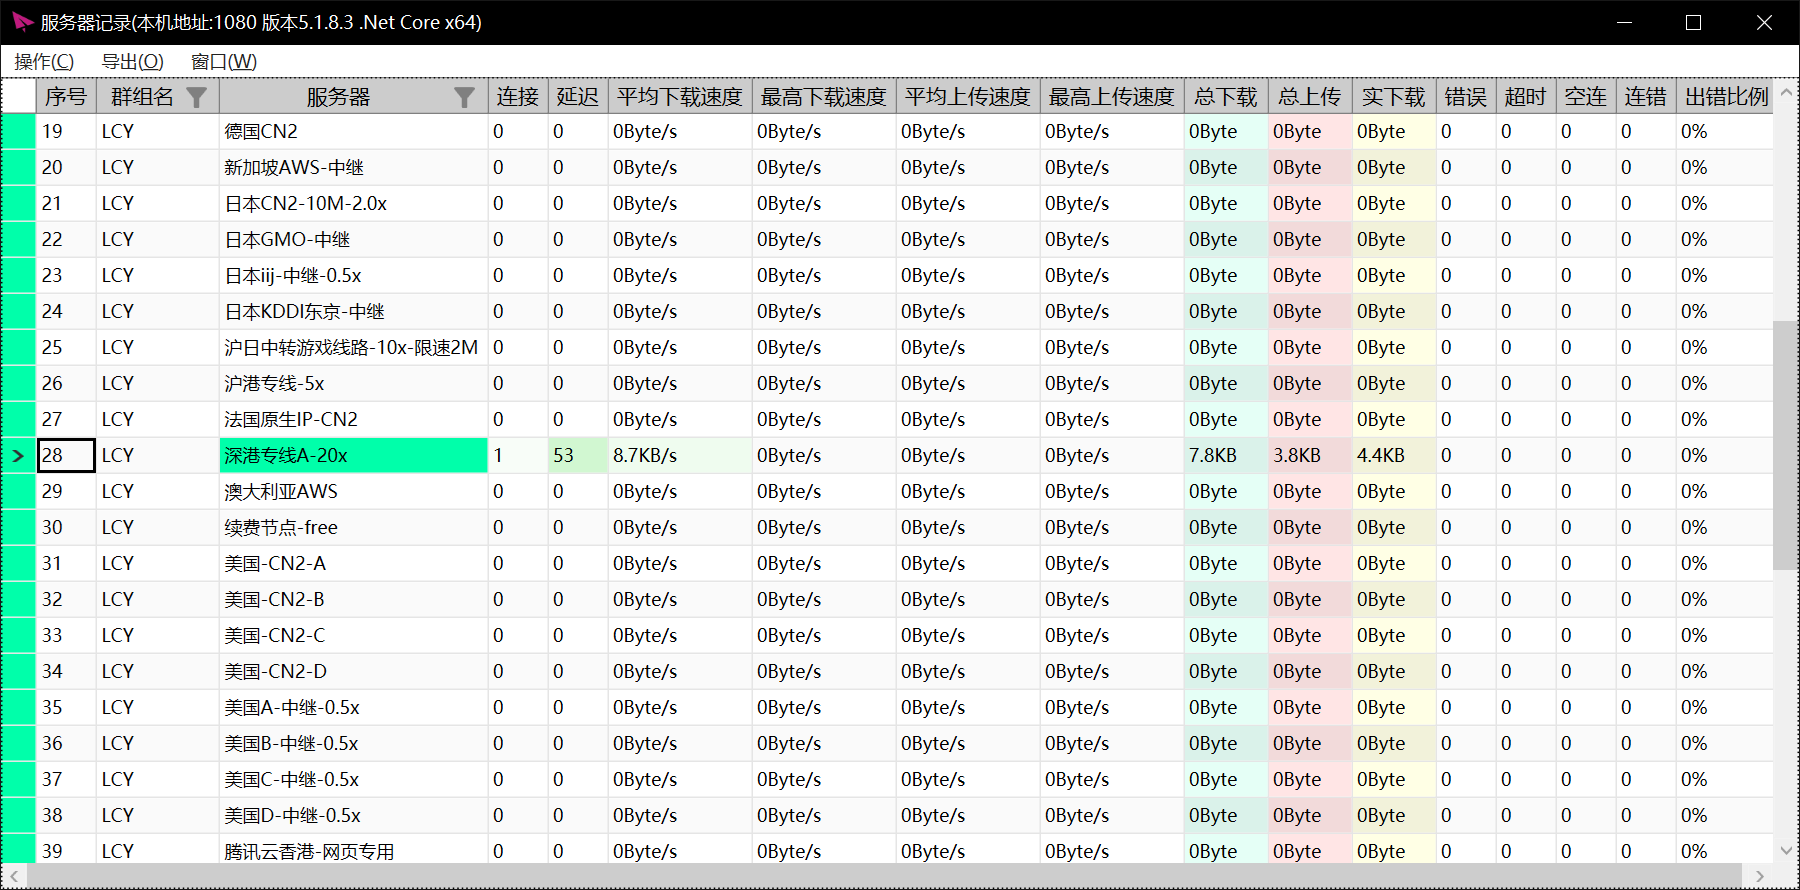
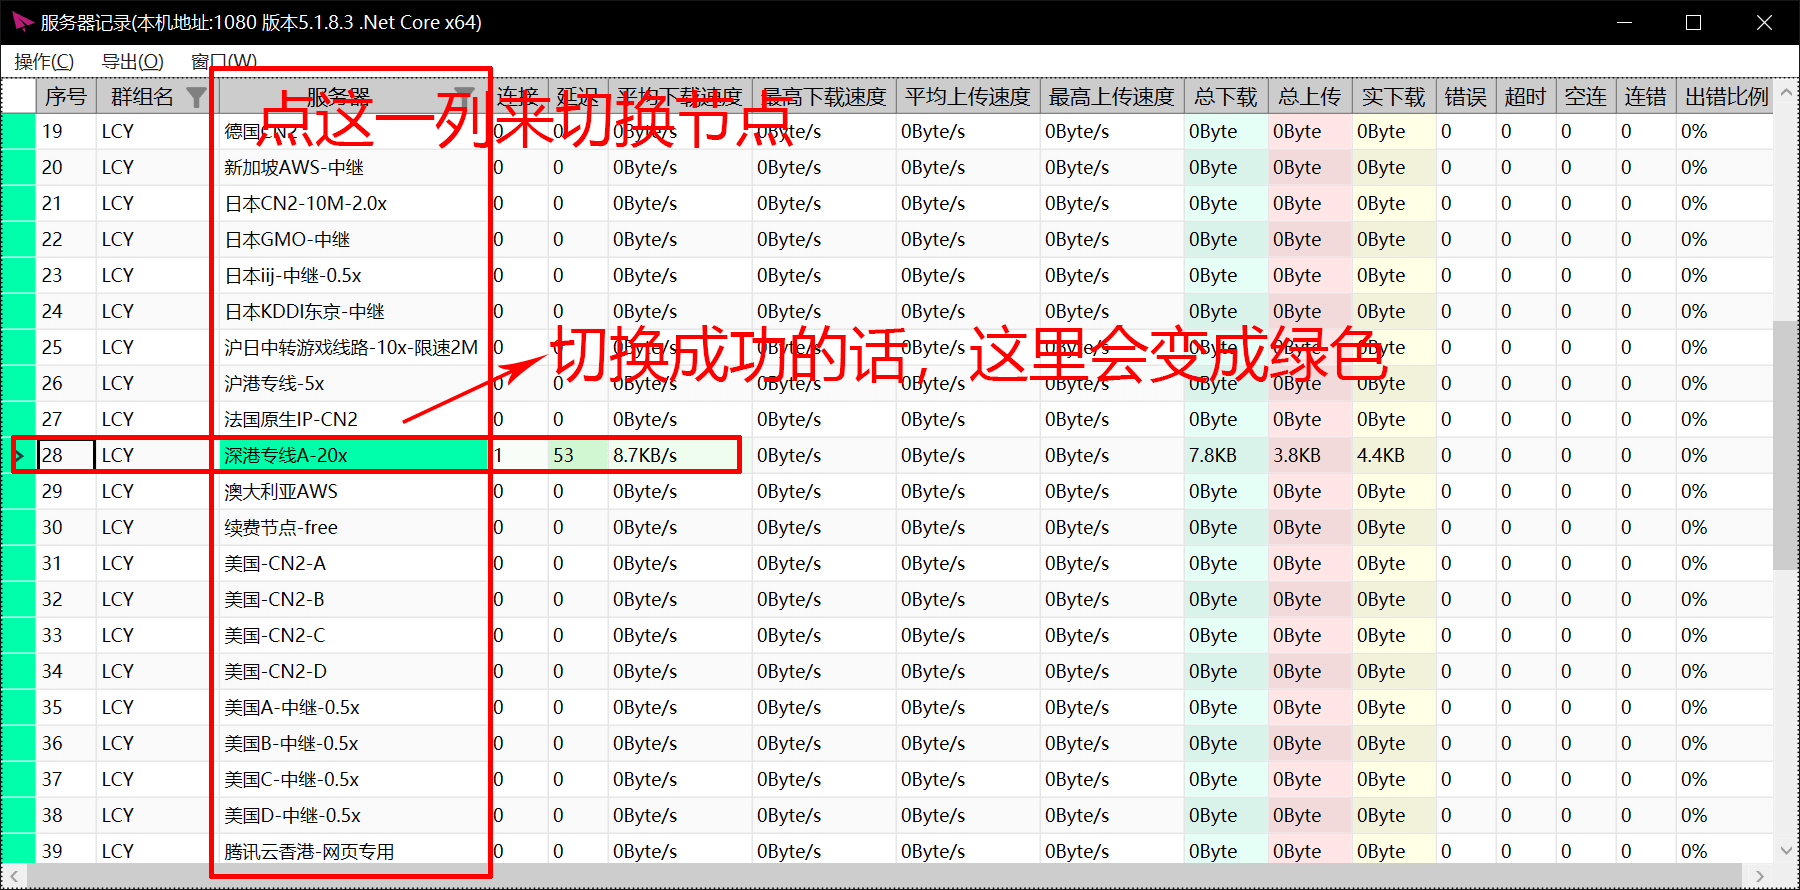
SSR Ver-3.3 修改部分内容

diff --git a/tutorial/SSR/SSR.html b/tutorial/SSR/SSR.html
@@ -128,8 +128,8 @@
         <section id="passage">
             <div class="centralImg" id="title">
                 <img src="SSRimg.png" width="50%" alt="SSR的图标" id="icon">
-                <h2>最后更新：2020年2月25日10:23</h2>
-                <h2>更新内容：太多了 Ver-3.2</h2>
+                <h2>最后更新：2020年2月25日14:33</h2>
+                <h2>更新内容：增加Windows部分的解释 Ver-3.3</h2>
             </div>
 
             <div class="line"></div>
@@ -169,7 +169,7 @@
                 <ul>
                     <li>访问本不存在的网站，如Google和Twitter</li>
                     <li>提高不稳定访问状态的外网网站的访问速度和稳定性，如GitHub和Microsoft</li>
-                    <li>改变IP地址，可用于观看B站仅限港澳台的番剧，也可用于突破部分网站或游戏锁IP的限制，如P站锁日本IP（据说）</li>
+                    <li>改变IP地址，可用于观看B站仅限港澳台的番剧，也可用于突破部分网站或游戏锁IP的限制</li>
                     <li>改善origin和steam的连接，解决各种乱七八糟的报错问题（如创意工坊无法访问，好友系统离线等等）</li>
                     <li>替代游戏加速器，不过一般加速效果很有限</li>
                 </ul>
@@ -278,11 +278,14 @@
                 </p>
                 <p>打开连接统计，有两种方法，第一种是中键SSR任务栏图标，第二种是右键任务栏图标，在菜单中找服务器——连接统计。</p>
                 <img src="win_7.png" width="100%" alt="连接统计页面">
-                <p>连接统计里会有很详细的节点信息。平均下载速度其实就是当前通过SSR的流量速度，总下载是这个节点所有时间的下载量，实下载是本次使用SSR这个节点的下载量。要切换节点的话，在服务器那一栏左键点你想挂的节点就行了。
+                <p>连接统计里会有很详细的节点信息。平均下载速度其实就是当前通过SSR的流量速度，总下载是这个节点所有时间的下载量，实下载是本次使用SSR这个节点的下载量。要切换节点的话，在服务器那一列点你想挂的节点就行了（注意不是点序号那一列），切换成功的话，服务器那里是会变成绿色的。
                 </p>
+                <br>
+                <p>关于查看节点可用性，可以切换节点后，打开Google或一个需要翻墙的网页进行检测，如果表中右侧没有出现红色报错信息的话，那就说明节点可用。另外，SSR只有在有流量经过后才会显示延迟，所以切换节点后是不会实时显示延迟的，需要打开一个需要翻墙的网页。</p>
+                <img src="win_9.png" width="100%" alt="连接报错页面">
                 <p><br>在这着重强调下<strong>节点名字的含义</strong>，也就是服务器那一栏。虽然每个机场可能给节点的命名规则不一样，但大同小异，具体的可以参考机场的公告。</p>
                 <ul>
-                    <li>名字前面的地区一般决定了你的IP地址段，这个针对部分锁IP的网站和游戏，比如P站会限制特定IP区间的流量才能访问，一般挂日本地区的节点就没什么大问题，但是你挂香港节点有可能就连不上。
+                    <li>名字前面的地区一般决定了你的IP地址段，这个针对部分锁IP的网站和游戏，比如YouTube部分日本视频会限制特定日本IP区间的流量才能访问，一般挂日本地区的节点就没什么大问题，但是你挂香港节点有可能就连不上。
                     </li>
                     <li>名字后面的数字加乘号，表示机场的流量统计方式。拿图中我挂着的这个节点为例，后面写着20x，那么你实下载1M的流量，在机场那统计的流量使用量是1M x 20
                         =20M，因为深港专线服务器租赁费用比较高，能提供更快的连接速度和防止被墙。平时使用时要格外注意，防止发生我朋友一天烧了80G流量的类似悲剧。</li>
@@ -391,7 +394,7 @@
                         <p style="word-break: break-all; color: #6495ED;">
                             ssr://My44NC4yMjEuMTE0OjcyNzI6YXV0aF9zaGExX3Y0OmFlcy0yNTYtY2ZiOnBsYWluOmMyOXlZWEJoWjJVLz9vYmZzcGFyYW09JnJlbWFya3M9UVZkVExlZS1qdVdidlEmZ3JvdXA9VTI5eVlWQmhaMlU
                         </p>
-                        <p>PS:复制，在SSR客户端中选择从剪切板导入节点。</p>
+                        <p>PS:复制，打开SSR的APP会有提示，或在SSR客户端中选择从剪切板导入节点。</p>
                         <p>目前在考虑搭建第二个节点，应该是架在日本，等另一位CUHK的大佬有空后再说。</p>
                         <p>希望各位理性使用，如果超出了使用额度，服务器会被收回。</p>
                     </div>
